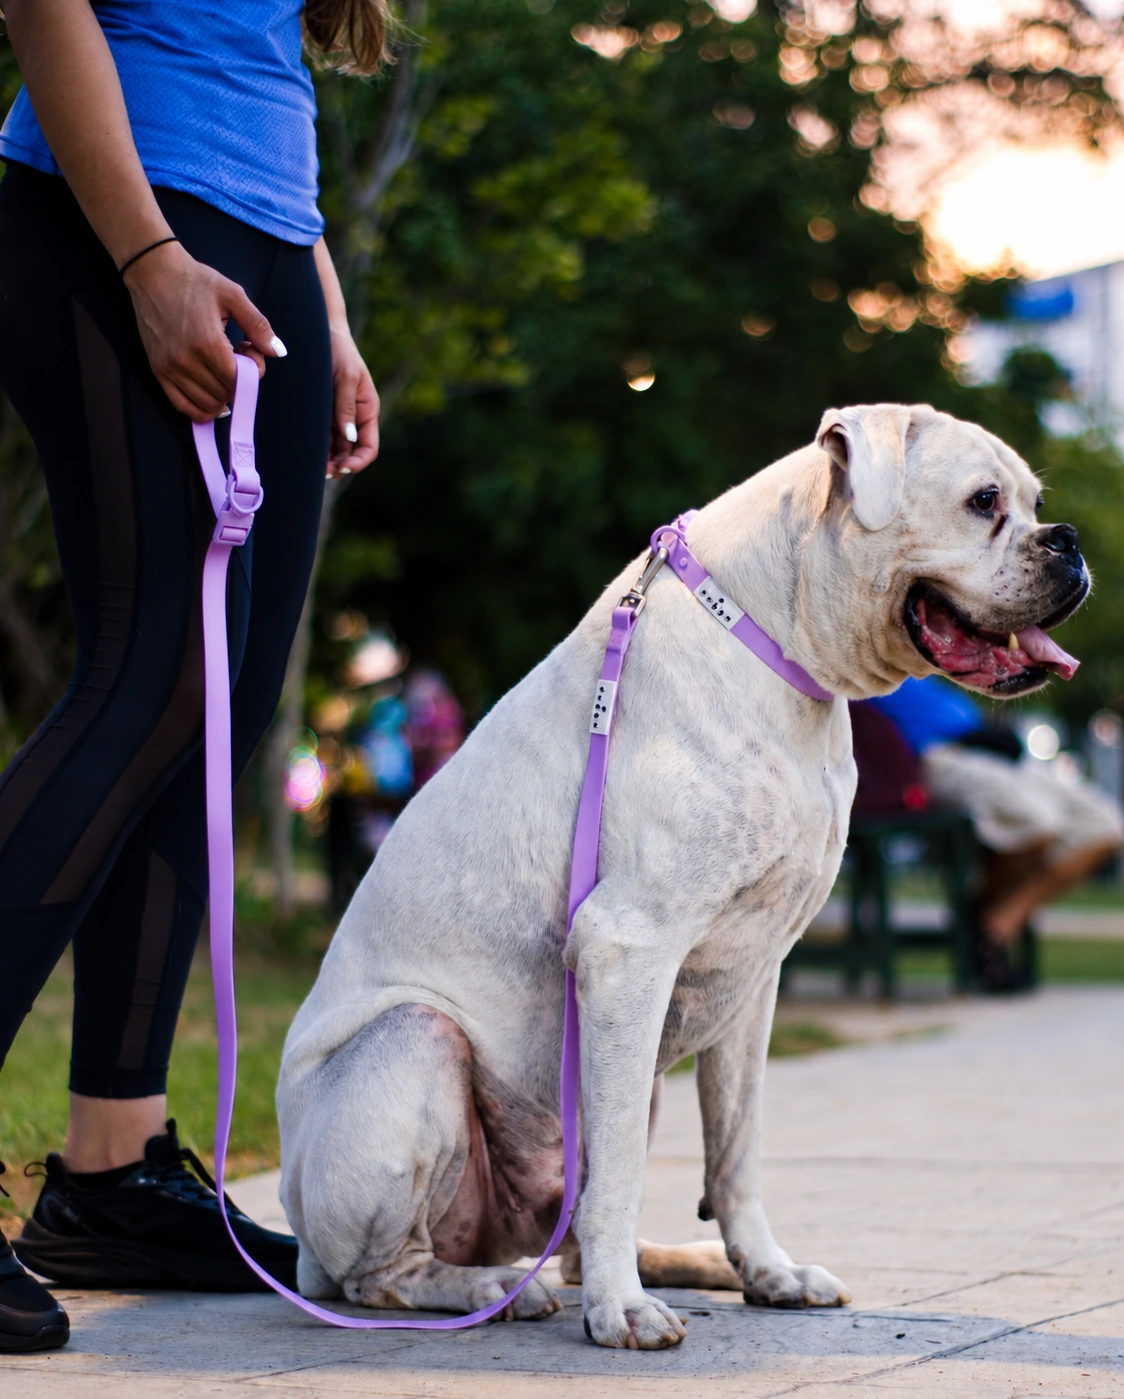
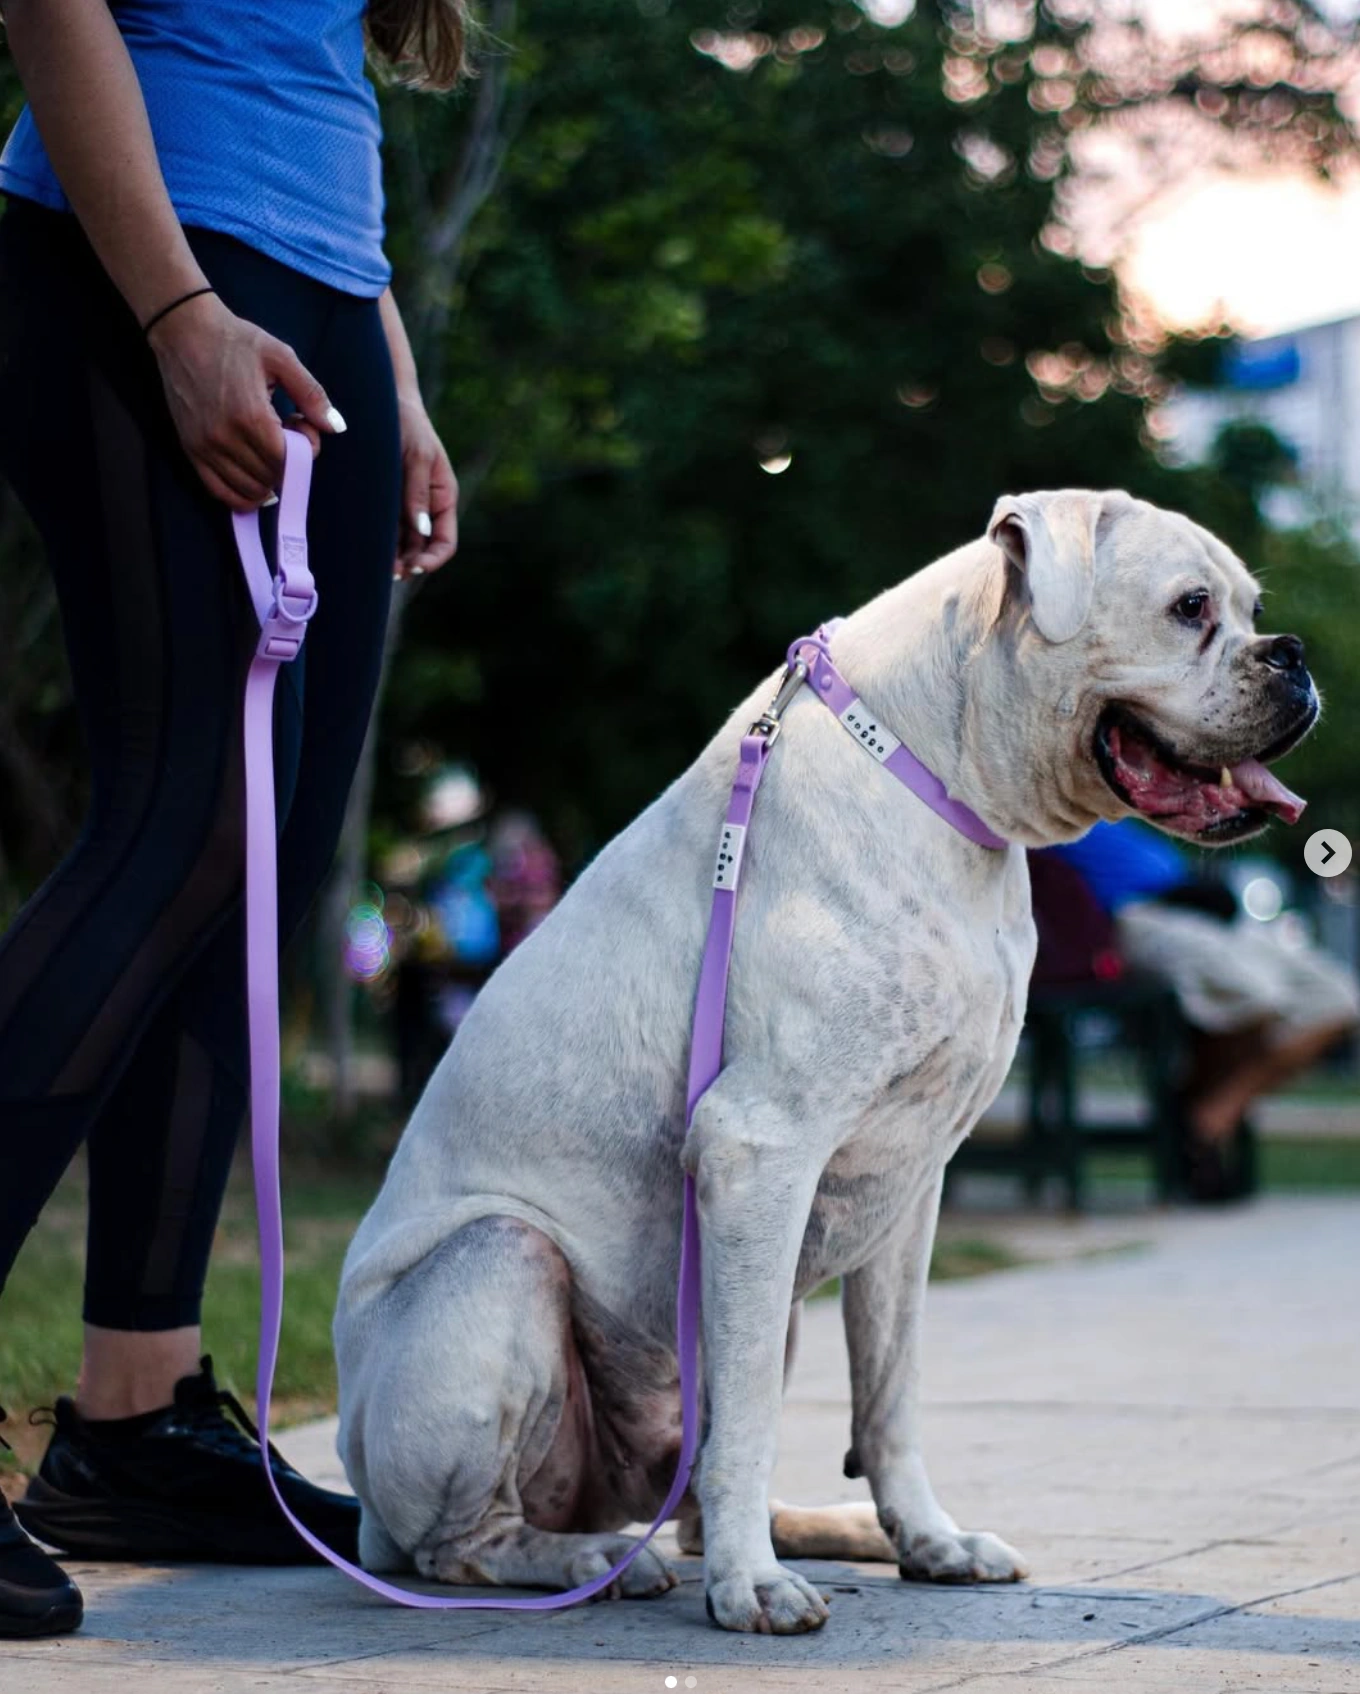
Restore original lilac DOGGA dog photo and product details

diff --git a/dogga.html b/dogga.html
@@ -28,7 +28,7 @@
       <div class="dogga-lifestyle-heading"><div><p class="eyebrow">03 / En la vida real</p><h2 id="dogga-lifestyle-title">De la marca<br><em>al paseo.</em></h2></div><p>La identidad DOGGA en sus accesorios, vista en movimiento.</p></div>
       <div class="dogga-lifestyle-grid">
         <figure class="dogga-lifestyle-photo"><img src="assets/dogga-brown-in-use.webp" width="1346" height="1706" alt="Perro blanco sentado en un paseo con collar y correa marrones DOGGA" loading="lazy" decoding="async"><figcaption><span>01 / Marrón</span><span>Un detalle en cada paseo</span></figcaption></figure>
-        <figure class="dogga-lifestyle-photo"><img src="assets/dogga-lilac-in-use.webp" width="1124" height="1399" alt="Perro blanco con arnés y correa lila DOGGA durante un paseo" loading="lazy" decoding="async"><figcaption><span>02 / Lila</span><span>La marca en movimiento</span></figcaption></figure>
+        <figure class="dogga-lifestyle-photo"><img src="assets/dogga-lilac-in-use.webp?v=2" width="1360" height="1694" alt="Perro blanco con arnés y correa lila DOGGA durante un paseo" loading="lazy" decoding="async"><figcaption><span>02 / Lila</span><span>La marca en movimiento</span></figcaption></figure>
       </div>
     </section>
     <section class="dogga-brandbook" aria-label="Brandbook DOGGA"><div><p class="eyebrow">Para ver más</p><h2>Brandbook<span aria-hidden="true">↗</span></h2></div><p>Próximamente, el documento completo de la marca.</p><span class="brandbook-pending" aria-disabled="true">Ver brandbook ↗</span></section>
